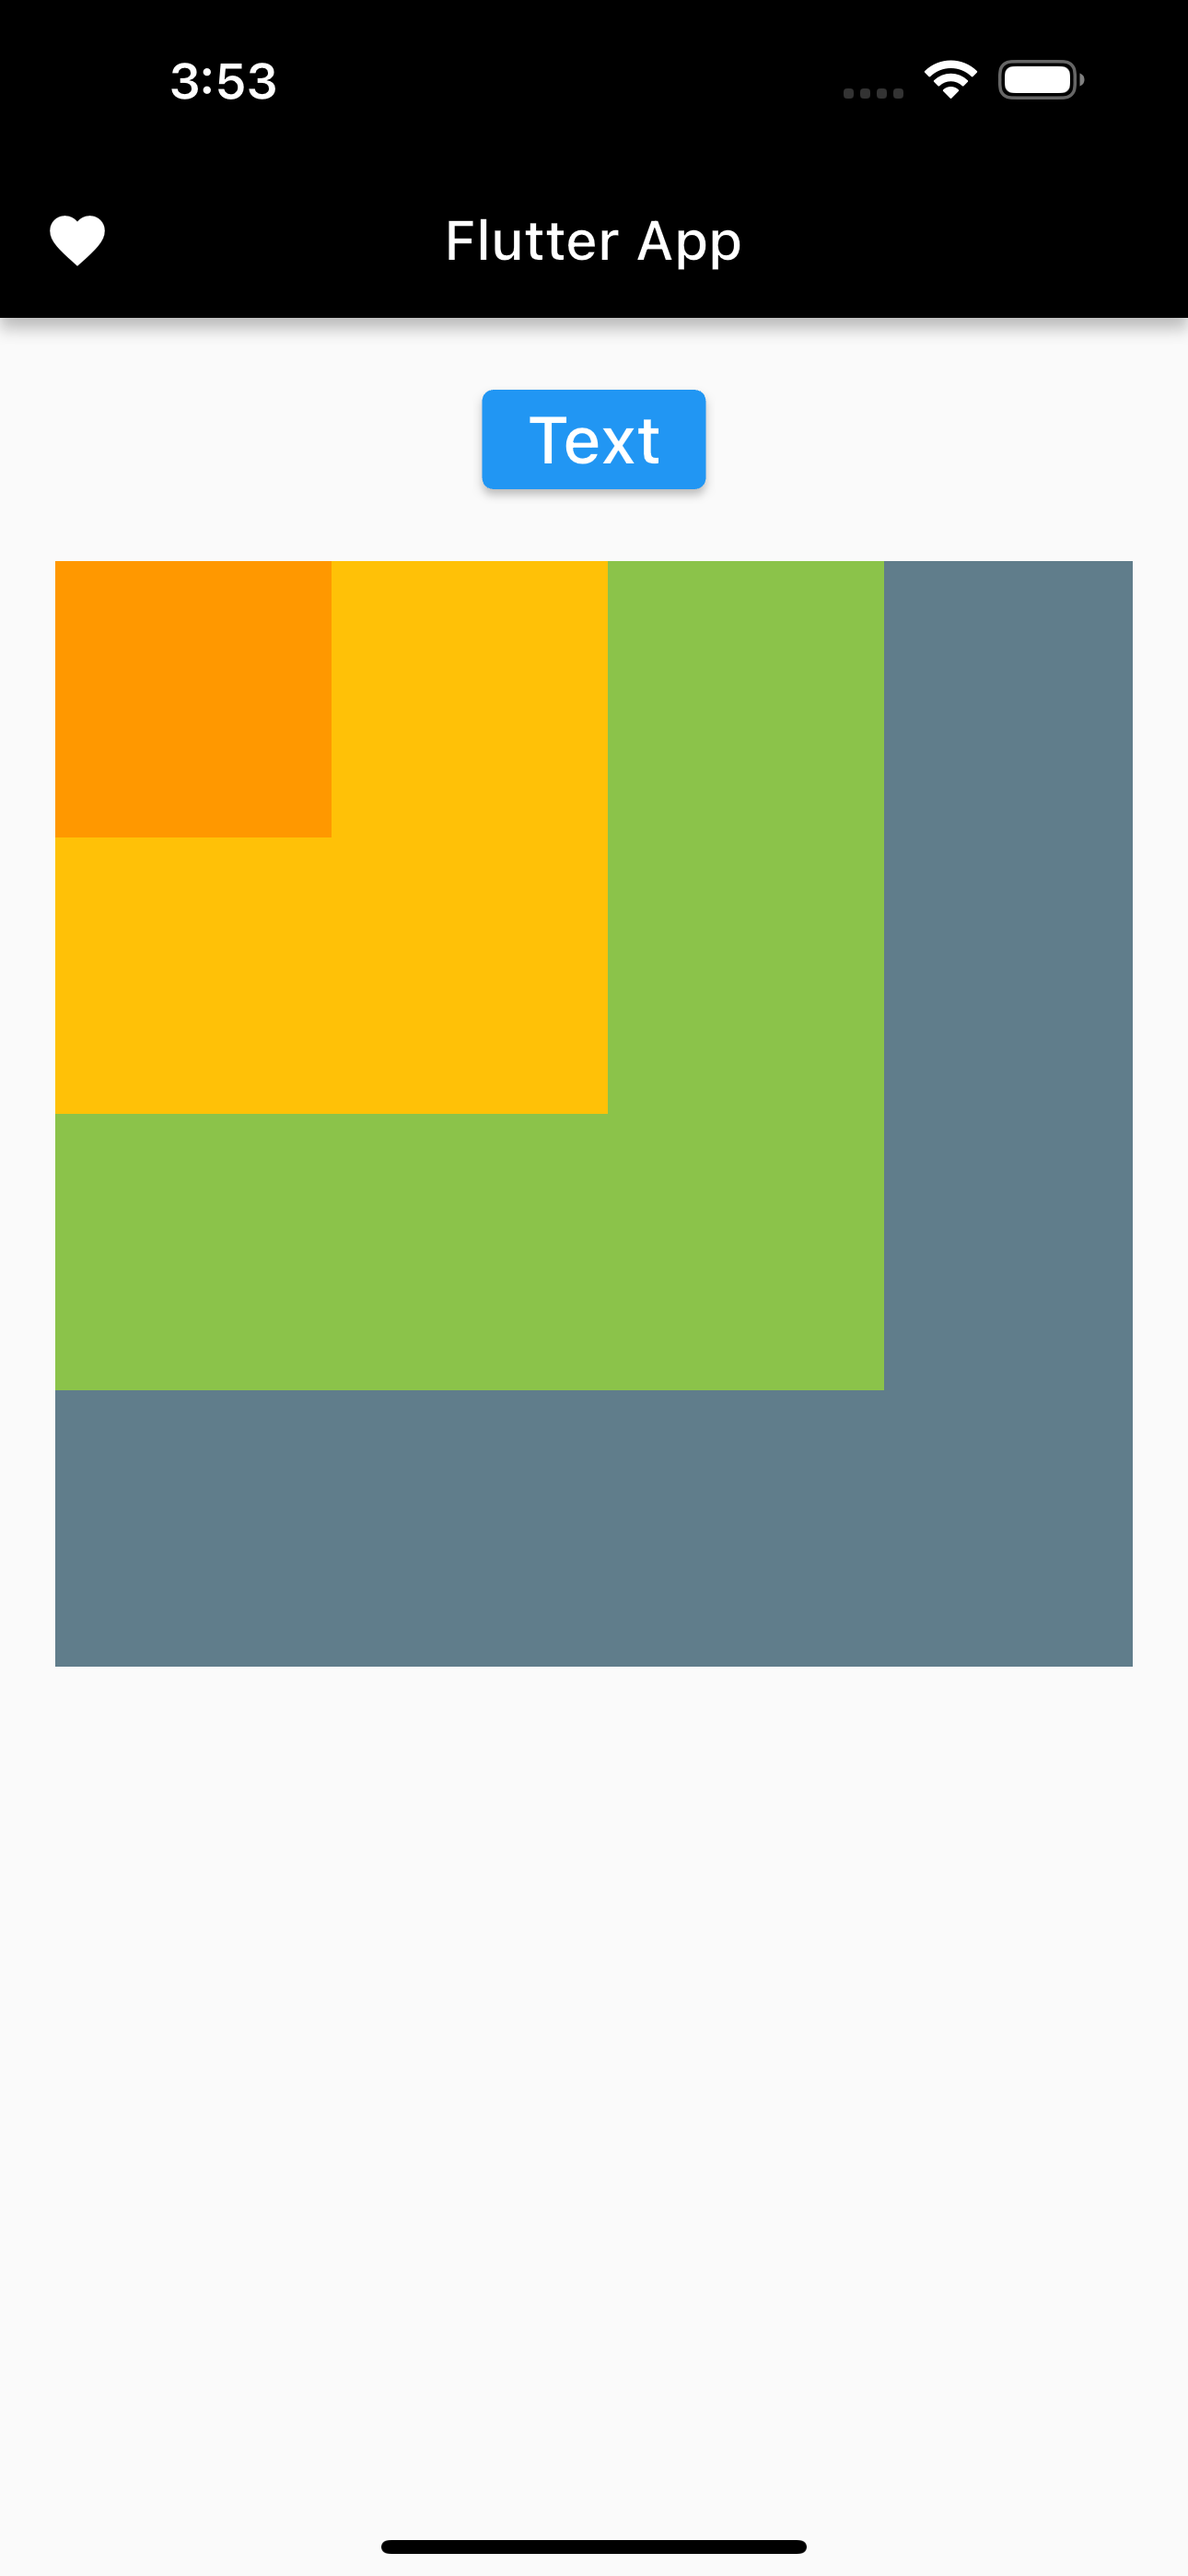
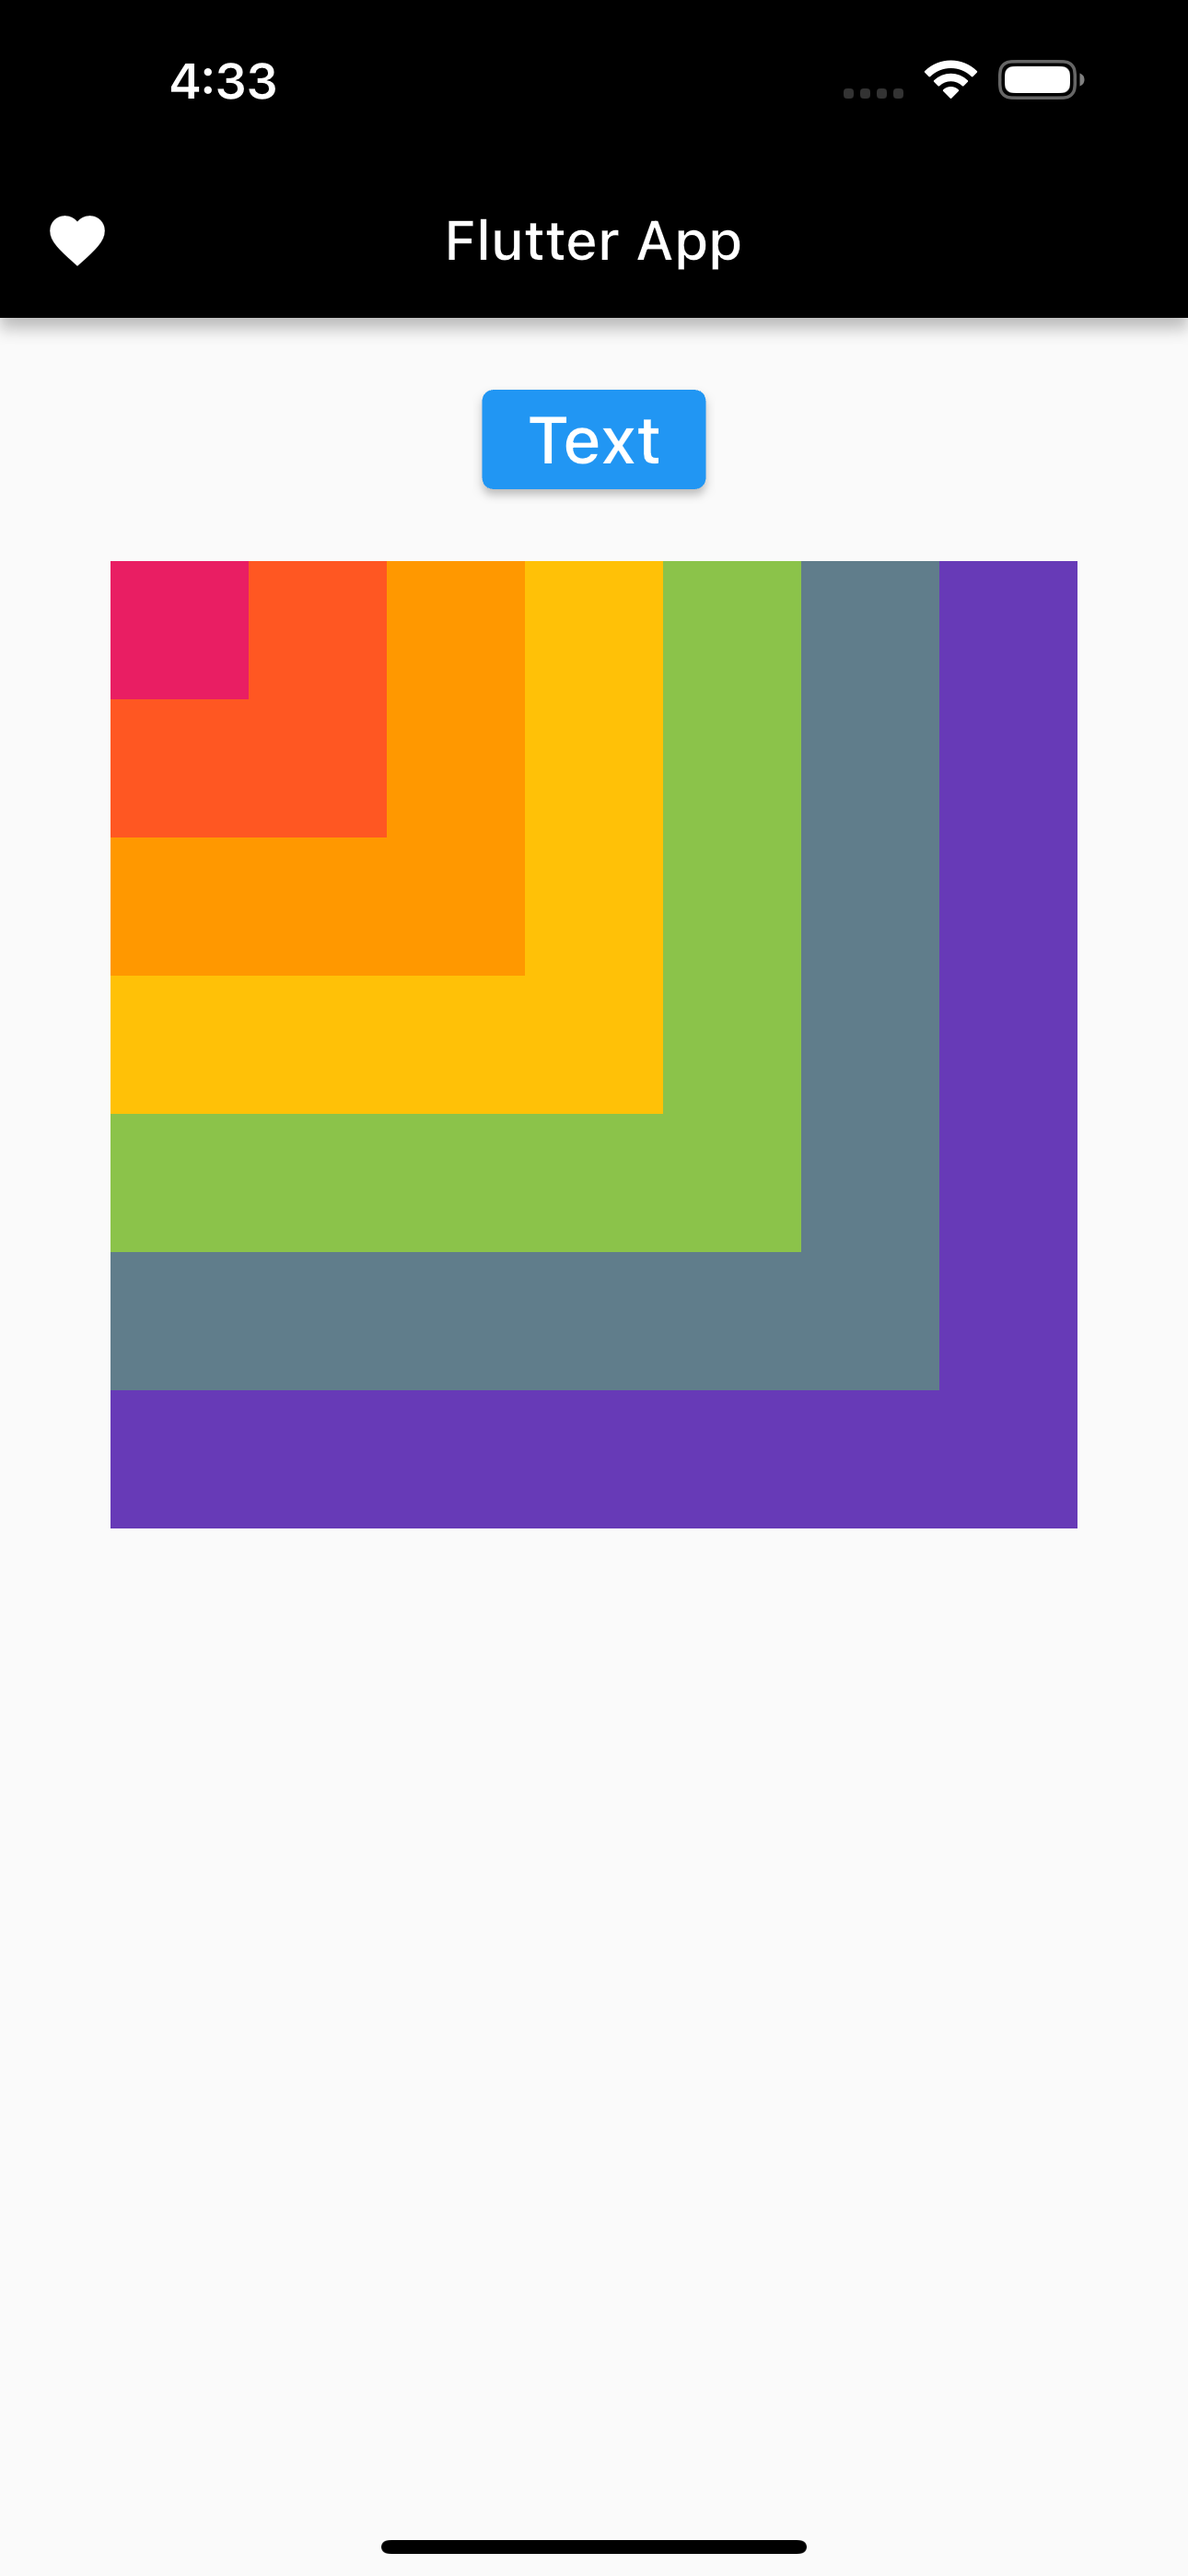
meh

Changed region(s): [[0.031, 0.2178, 0.9612, 0.6534], [0.4961, 0.2178, 0.5581, 0.4356]]

diff --git a/lib/main.dart b/lib/main.dart
@@ -50,16 +50,18 @@ class MyApp extends StatelessWidget {
                 Stack(
                   children: [
                     Container(
+                      width: 350,
+                      height: 350,
                       color: Colors.deepPurple,
-                    ),
-                    Container(
-                      width: 400,
-                      height: 400,
-                      color: Colors.blueGrey,
                     ),
                     Container(
                       width: 300,
                       height: 300,
+                      color: Colors.blueGrey,
+                    ),
+                    Container(
+                      width: 250,
+                      height: 250,
                       color: Colors.lightGreen,
                     ),
                     Container(
@@ -68,9 +70,19 @@ class MyApp extends StatelessWidget {
                       color: Colors.amber,
                     ),
                     Container(
+                      width: 150,
+                      height: 150,
+                      color: Colors.orange,
+                    ),
+                    Container(
                       width: 100,
                       height: 100,
-                      color: Colors.orange,
+                      color: Colors.deepOrange,
+                    ),
+                    Container(
+                      width: 50,
+                      height: 50,
+                      color: Colors.pink,
                     ),
                   ],
                 )
